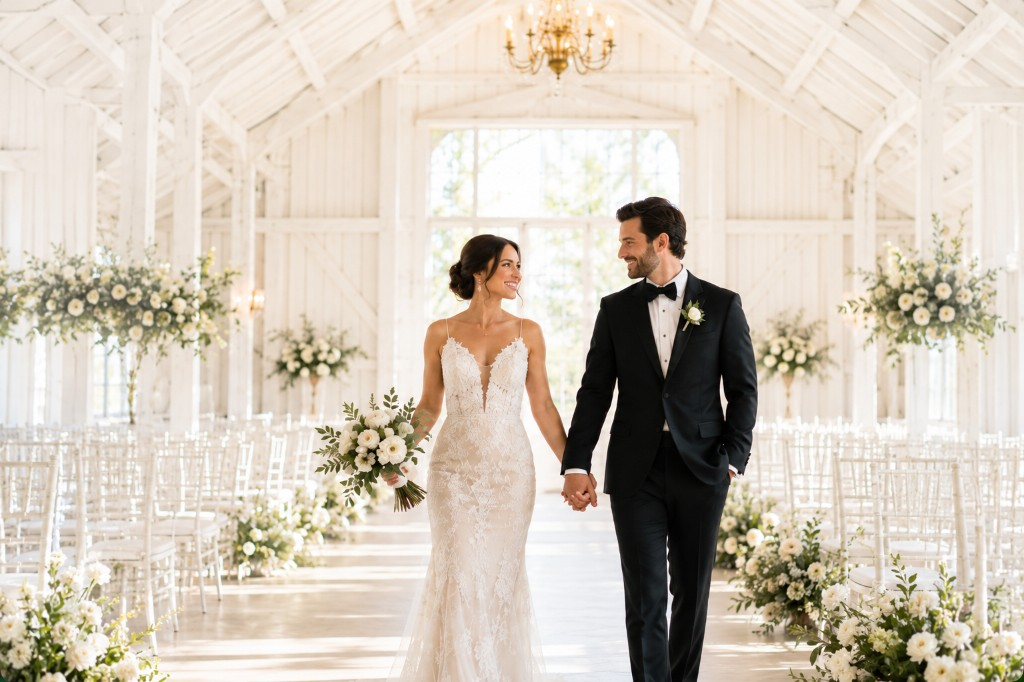
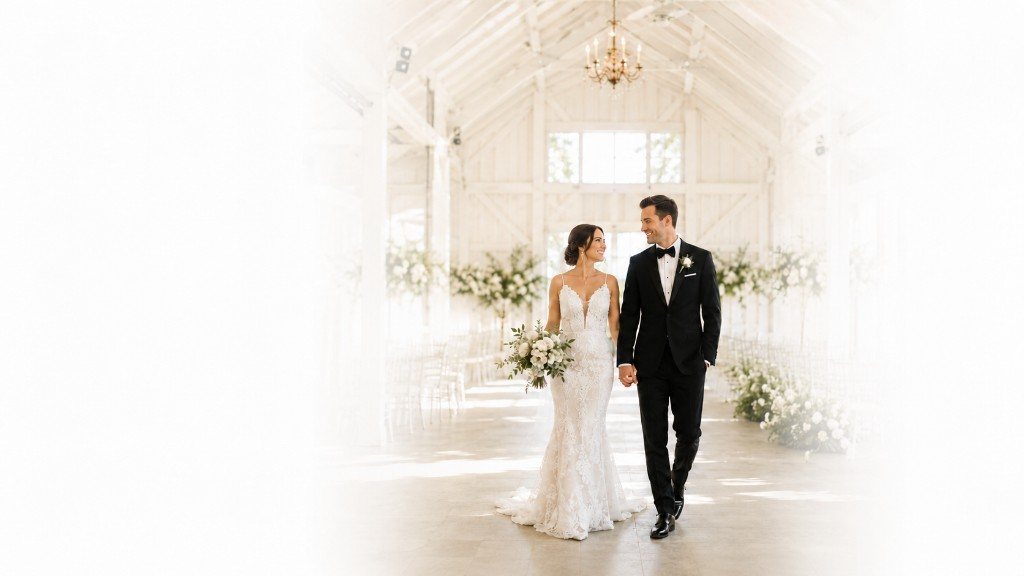
Replace hero with pre-faded wedding couple photo, no overlay

diff --git a/src/app/book-more-weddings/page.tsx b/src/app/book-more-weddings/page.tsx
@@ -385,21 +385,8 @@ export default function BookMoreWeddingsPage() {
           priority
           unoptimized
           placeholder="empty"
-          className="absolute inset-0 object-cover object-center"
+          className="absolute inset-0 object-cover object-top"
           sizes="100vw"
-        />
-
-        {/* Horizontal gradient overlay:
-            far-left  → strong white so headline/body text is legible
-            center    → near-transparent so the couple shines through
-            far-right → light veil so the phone mockup UI stays crisp */}
-        <div
-          aria-hidden
-          className="absolute inset-0"
-          style={{
-            background:
-              "linear-gradient(to right, rgba(255,255,255,0.92) 0%, rgba(255,255,255,0.72) 28%, rgba(255,255,255,0.18) 52%, rgba(255,255,255,0.28) 72%, rgba(255,255,255,0.55) 100%)",
-          }}
         />
 
         <div className="relative w-full max-w-7xl mx-auto px-6 md:px-10 py-16 sm:py-20 grid lg:grid-cols-12 gap-10 lg:gap-8 items-center">
